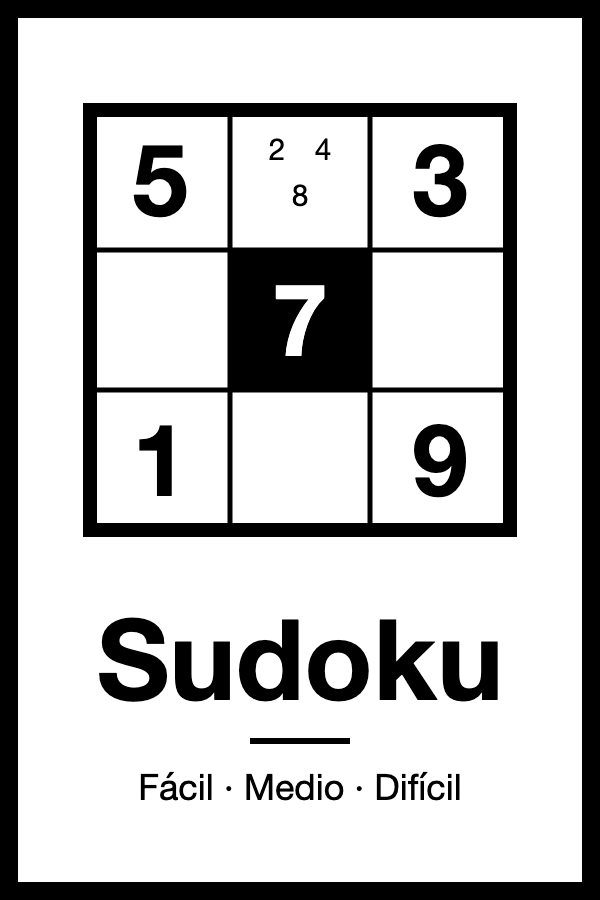
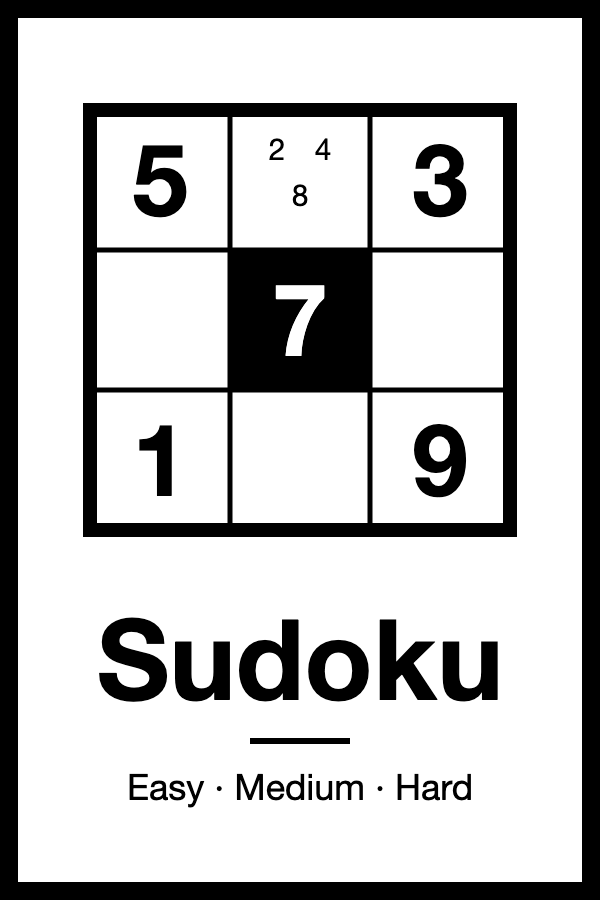
Sudoku: English and Spanish, with a settings screen
- The interface is in English (the default) or Spanish. All text lives in one
  TEXT table in app.js; level ids in saved games do not depend on the language.
- A gear at the top right of the menu and of the game opens a settings screen
  with the language. The title bar cannot hold a button of the app's own:
  KPP_MORE shows three dots but a tap opens the Kindle's menu, not the app.
- The library cover and the package description are in English.

Verified on a Paperwhite 12th gen (5.20.2): both languages, the language is
remembered, and the gear opens the settings.

Changed region(s): [[0.39, 0.84, 0.78, 0.9022], [0.21, 0.84, 0.36, 0.9022]]

diff --git a/waf/app.js b/waf/app.js
@@ -1,11 +1,12 @@
 /* Sudoku: Kindle WAF. ES5 only (the Kindle web engine is old).
-   Everything is local: no network, no service. The game is saved in localStorage. */
+   Everything is local: no network, no service. The game is saved in localStorage.
+   The interface is in English or Spanish (see TEXT); English is the default. */
 (function () {
   var APP_ID = 'com.alexgar.sudoku';
   var S = window.Sudoku;
   var app = document.getElementById('app');
   var LEVELS = ['facil', 'medio', 'dificil'];
-  var LABEL = { facil: 'Fácil', medio: 'Medio', dificil: 'Difícil' };
+  var LABEL = { facil: 1, medio: 1, dificil: 1 }; // the valid level ids; their names are in TEXT
   var IDLE_CAP = 120000; // a pause longer than this does not count as playing time
   var MAX_UNDO = 60;
 
@@ -33,10 +34,60 @@
     };
   })();
 
+  // ---- language -------------------------------------------------------------
+  // {0}, {1} are filled in by t(). Level ids stay 'facil' / 'medio' / 'dificil' in
+  // saved games whatever the language.
+  var TEXT = {
+    en: {
+      'name.en': 'English', 'name.es': 'Español', language: 'Language', settings: 'Settings', back: 'Back',
+      'level.facil': 'Easy', 'level.medio': 'Medium', 'level.dificil': 'Hard',
+      'continue': 'Continue', continueSub: '{0} · {1} cells left', newGame: 'New game',
+      unfinished: 'You have an unfinished game. Starting another one discards it.',
+      startNew: 'Start a new {0} one', solved: 'Solved', colLevel: 'Level', colSolved: 'Solved', colBest: 'Best time',
+      noSave: 'This Kindle cannot save your progress: if you close the app, the game is lost.',
+      preparing: 'Preparing a new {0} sudoku…',
+      won: 'Solved!', hint1: '1 hint', hintN: '{0} hints', another: 'Another {0} one', menu: 'Menu',
+      keyLeft: '{0} left', keyDone: 'done', keyOver: 'too many',
+      notes: 'Notes', erase: 'Erase', undo: 'Undo', hint: 'Hint', check: 'Check', status: '{0} · {1} left',
+      msgPick: 'Tap a cell first', msgGiven: 'That cell is part of the puzzle', msgNotes: 'Erase the number to add notes',
+      msgNoUndo: 'Nothing to undo', msgRight: 'That cell is already right',
+      chkOk: 'All good so far', chk1: '1 wrong cell', chkN: '{0} wrong cells', msgFull: 'Full, but with mistakes: tap Check'
+    },
+    es: {
+      'name.en': 'English', 'name.es': 'Español', language: 'Idioma', settings: 'Ajustes', back: 'Volver',
+      'level.facil': 'Fácil', 'level.medio': 'Medio', 'level.dificil': 'Difícil',
+      'continue': 'Continuar', continueSub: '{0} · faltan {1} casillas', newGame: 'Juego nuevo',
+      unfinished: 'Tienes un juego sin terminar. Si empiezas otro, ese se pierde.',
+      startNew: 'Empezar uno {0}', solved: 'Resueltos', colLevel: 'Nivel', colSolved: 'Resueltos', colBest: 'Mejor tiempo',
+      noSave: 'Este Kindle no deja guardar el avance: si cierras la app, el juego se pierde.',
+      preparing: 'Preparando un sudoku {0}…',
+      won: '¡Resuelto!', hint1: '1 pista', hintN: '{0} pistas', another: 'Otro {0}', menu: 'Menú',
+      keyLeft: 'faltan {0}', keyDone: 'listo', keyOver: 'de más',
+      notes: 'Notas', erase: 'Borrar', undo: 'Deshacer', hint: 'Pista', check: 'Comprobar', status: '{0} · faltan {1}',
+      msgPick: 'Toca una casilla primero', msgGiven: 'Esa casilla es del sudoku', msgNotes: 'Borra el número para poner notas',
+      msgNoUndo: 'No hay nada que deshacer', msgRight: 'Esa casilla ya está bien',
+      chkOk: 'Todo bien hasta aquí', chk1: '1 casilla con error', chkN: '{0} casillas con error', msgFull: 'Lleno, pero hay errores: toca Comprobar'
+    }
+  };
+  var lang = 'en';
+  function setLang(l, save) {
+    lang = TEXT[l] ? l : 'en';
+    document.documentElement.lang = lang;
+    if (save) { store.set('sudoku.lang', lang); }
+  }
+  function t(key, a, b) {
+    var s = TEXT[lang][key];
+    if (s === undefined) { s = TEXT.en[key]; }
+    return String(s).replace('{0}', a === undefined ? '' : a).replace('{1}', b === undefined ? '' : b);
+  }
+  function L(level) { return t('level.' + level); }      // "Easy"
+  function l(level) { return L(level).toLowerCase(); }   // "easy", inside a sentence
+
   // ---- state ----------------------------------------------------------------
   var game = null;       // { level, puzzle[], solution[], val[], notes[], elapsed, hints, undo[], done }
   var stats = {};        // { facil: { won, best }, ... }
-  var screen = 'menu';   // menu | busy | game
+  var screen = 'menu';   // menu | busy | game | settings
+  var beforeSettings = 'menu'; // where "Back" on the settings screen returns to
   var sel = -1, noteMode = false, errs = {}, message = '';
   var cells = [], keys = [], drawn = [], drawnKeys = [];
   var lastTick = 0;
@@ -114,40 +165,65 @@
   function renderMenu(confirmLevel) {
     screen = 'menu';
     setupChrome('Sudoku');
-    var h = '<div class="menu"><div class="logo">Sudoku</div>', i, l;
+    var h = '<div class="menu">' + GEAR + '<div class="logo">Sudoku</div>', i, lv;
     var playing = game && !game.done;
     if (playing) {
-      h += btn('continue', '', 'Continuar', LABEL[game.level] + ' · faltan ' + missing() + ' casillas', 'dark');
+      h += btn('continue', '', t('continue'), t('continueSub', L(game.level), missing()), 'dark');
     }
-    h += '<div class="label">Juego nuevo</div><table class="three"><tr>';
+    h += '<div class="label">' + t('newGame') + '</div><table class="three"><tr>';
     for (i = 0; i < LEVELS.length; i++) {
-      l = LEVELS[i];
-      h += '<td>' + btn('new', ' data-l="' + l + '"', LABEL[l]) + '</td>';
+      lv = LEVELS[i];
+      h += '<td>' + btn('new', ' data-l="' + lv + '"', L(lv)) + '</td>';
     }
     h += '</tr></table>';
     if (confirmLevel) {
-      h += '<div class="box"><div class="note">Tienes un juego sin terminar. Si empiezas otro, ese se pierde.</div>' +
-        btn('newok', ' data-l="' + confirmLevel + '"', 'Empezar uno ' + LABEL[confirmLevel].toLowerCase()) + '</div>';
+      h += '<div class="box"><div class="note">' + t('unfinished') + '</div>' +
+        btn('newok', ' data-l="' + confirmLevel + '"', t('startNew', l(confirmLevel))) + '</div>';
     }
-    h += '<div class="label">Resueltos</div><table class="stats"><tr><th>Nivel</th><th class="num">Resueltos</th><th class="num">Mejor tiempo</th></tr>';
+    h += '<div class="label">' + t('solved') + '</div><table class="stats"><tr><th>' + t('colLevel') + '</th><th class="num">' +
+      t('colSolved') + '</th><th class="num">' + t('colBest') + '</th></tr>';
     for (i = 0; i < LEVELS.length; i++) {
-      l = LEVELS[i];
-      h += '<tr><td>' + LABEL[l] + '</td><td class="num">' + stats[l].won + '</td><td class="num">' +
-        (stats[l].best ? fmtTime(stats[l].best) : '—') + '</td></tr>';
+      lv = LEVELS[i];
+      h += '<tr><td>' + L(lv) + '</td><td class="num">' + stats[lv].won + '</td><td class="num">' +
+        (stats[lv].best ? fmtTime(stats[lv].best) : '—') + '</td></tr>';
     }
     h += '</table>';
     if (!store.persistent) {
-      h += '<div class="box"><div class="note">Este Kindle no deja guardar el avance: si cierras la app, el juego se pierde.</div></div>';
+      h += '<div class="box"><div class="note">' + t('noSave') + '</div></div>';
     }
     app.innerHTML = h + '</div>';
     window.scrollTo(0, 0);
   }
 
+  // ---- settings (the gear at the top right of the menu and of the game) ------
+  var GEAR = '<a class="gear" href="javascript:void(0)" data-a="settings"></a>';
+  function openSettings() {
+    if (screen === 'settings' || screen === 'busy') { return; }
+    if (screen === 'game') { tick(); saveGame(); lastTick = 0; }
+    beforeSettings = screen;
+    renderSettings();
+  }
+  function renderSettings() {
+    screen = 'settings';
+    setupChrome('Sudoku · ' + t('settings'));
+    var h = '<div class="menu"><div class="logo">' + t('settings') + '</div><div class="label">' + t('language') +
+      '</div><table class="three"><tr>', code;
+    for (code in TEXT) {
+      if (TEXT.hasOwnProperty(code)) {
+        h += '<td>' + btn('lang', ' data-v="' + code + '"', t('name.' + code), '', code === lang ? 'dark' : '') + '</td>';
+      }
+    }
+    app.innerHTML = h + '</tr></table><div class="label">&nbsp;</div>' + btn('settingsback', '', t('back')) + '</div>';
+    window.scrollTo(0, 0);
+  }
+  function closeSettings() {
+    if (beforeSettings === 'game' && game) { renderGame(); } else { renderMenu(); }
+  }
+
   // ---- new game -------------------------------------------------------------
   function startNew(level) {
     screen = 'busy';
-    app.innerHTML = '<div class="menu"><div class="logo">Sudoku</div><div class="busy">Preparando un sudoku ' +
-      LABEL[level].toLowerCase() + '…</div></div>';
+    app.innerHTML = '<div class="menu"><div class="logo">Sudoku</div><div class="busy">' + t('preparing', l(level)) + '</div></div>';
     var best = null, tries = 0;
     // In short slices, so the "Preparando" text gets painted first.
     function step() {
@@ -173,10 +249,10 @@
   // ---- game screen ----------------------------------------------------------
   function renderGame() {
     screen = 'game';
-    setupChrome('Sudoku · ' + LABEL[game.level]);
+    setupChrome('Sudoku · ' + L(game.level));
     sel = -1; noteMode = false; errs = {}; message = ''; drawn = []; cells = [];
     lastTick = Date.now();
-    var h = '<div class="status"><span id="st"></span><span id="msg"></span></div><table class="board">', r, c;
+    var h = '<div class="status"><span id="st"></span>' + GEAR + '<span id="msg"></span></div><table class="board">', r, c;
     for (r = 0; r < 9; r++) {
       h += '<tr>';
       for (c = 0; c < 9; c++) {
@@ -203,9 +279,9 @@
     var box = document.getElementById('controls'), h, d;
     keys = []; drawnKeys = [];
     if (game.done) {
-      h = '<div class="win"><div class="wt">¡Resuelto!</div><div class="wd">' + LABEL[game.level] + ' · ' + fmtTime(game.elapsed) +
-        (game.hints ? ' · ' + game.hints + (game.hints === 1 ? ' pista' : ' pistas') : '') + '</div><table><tr>' +
-        act('newok', 'Otro ' + LABEL[game.level].toLowerCase(), ' data-l="' + game.level + '"') + act('menu', 'Menú') + '</tr></table></div>';
+      h = '<div class="win"><div class="wt">' + t('won') + '</div><div class="wd">' + L(game.level) + ' · ' + fmtTime(game.elapsed) +
+        (game.hints ? ' · ' + (game.hints === 1 ? t('hint1') : t('hintN', game.hints)) : '') + '</div><table><tr>' +
+        act('newok', t('another', l(game.level)), ' data-l="' + game.level + '"') + act('menu', t('menu')) + '</tr></table></div>';
       box.innerHTML = h;
       return;
     }
@@ -215,8 +291,8 @@
         '</span><span class="kc"></span></a></td>';
     }
     // "Menú" is also the title bar's back arrow; the button is there in case the arrow fails.
-    h += '</tr></table><table class="acts"><tr>' + act('menu', 'Menú') + act('notes', 'Notas', ' id="a-notes"') +
-      act('erase', 'Borrar') + act('undo', 'Deshacer') + act('hint', 'Pista') + act('check', 'Comprobar') + '</tr></table>';
+    h += '</tr></table><table class="acts"><tr>' + act('menu', t('menu')) + act('notes', t('notes'), ' id="a-notes"') +
+      act('erase', t('erase')) + act('undo', t('undo')) + act('hint', t('hint')) + act('check', t('check')) + '</tr></table>';
     box.innerHTML = h;
     var as = box.getElementsByTagName('a');
     for (var i = 0; i < as.length; i++) {
@@ -249,11 +325,11 @@
       if (drawnKeys[d] === sig) { continue; }
       drawnKeys[d] = sig;
       keys[d].className = 'key' + (left <= 0 ? ' out' : '');
-      keys[d].getElementsByTagName('span')[1].innerHTML = left > 0 ? 'faltan ' + left : (left === 0 ? 'listo' : 'de más');
+      keys[d].getElementsByTagName('span')[1].innerHTML = left > 0 ? t('keyLeft', left) : (left === 0 ? t('keyDone') : t('keyOver'));
     }
     var nb = document.getElementById('a-notes');
     if (nb) { nb.className = 'act' + (noteMode ? ' on' : ''); }
-    setText('st', game.done ? LABEL[game.level] : LABEL[game.level] + ' · faltan ' + count[0]);
+    setText('st', game.done ? L(game.level) : t('status', L(game.level), count[0]));
     setText('msg', message);
   }
   function setText(id, text) {
@@ -267,15 +343,15 @@
     if (game.undo.length > MAX_UNDO) { game.undo.shift(); }
   }
   function editable() { // the selected cell, if the player may change it
-    if (sel < 0) { message = 'Toca una casilla primero'; return false; }
-    if (game.puzzle[sel]) { message = 'Esa casilla es del sudoku'; return false; }
+    if (sel < 0) { message = t('msgPick'); return false; }
+    if (game.puzzle[sel]) { message = t('msgGiven'); return false; }
     return true;
   }
   function putDigit(d) {
     if (!editable()) { return; }
     var bit = 1 << (d - 1), i;
     if (noteMode) {
-      if (game.val[sel]) { message = 'Borra el número para poner notas'; return; }
+      if (game.val[sel]) { message = t('msgNotes'); return; }
       remember();
       game.notes[sel] ^= bit;
       return;
@@ -295,13 +371,13 @@
     game.val[sel] = 0; game.notes[sel] = 0; delete errs[sel];
   }
   function undo() {
-    if (!game.undo.length) { message = 'No hay nada que deshacer'; return; }
+    if (!game.undo.length) { message = t('msgNoUndo'); return; }
     restore(game.undo.pop());
     errs = {};
   }
   function hint() {
     if (!editable()) { return; }
-    if (game.val[sel] === game.solution[sel]) { message = 'Esa casilla ya está bien'; return; }
+    if (game.val[sel] === game.solution[sel]) { message = t('msgRight'); return; }
     remember();
     var d = game.solution[sel], bit = 1 << (d - 1);
     game.val[sel] = d; game.notes[sel] = 0; game.hints++; delete errs[sel];
@@ -314,14 +390,14 @@
     for (var i = 0; i < 81; i++) {
       if (game.val[i] && game.val[i] !== game.solution[i]) { errs[i] = true; n++; }
     }
-    message = n === 0 ? 'Todo bien hasta aquí' : (n === 1 ? '1 casilla con error' : n + ' casillas con error');
+    message = n === 0 ? t('chkOk') : (n === 1 ? t('chk1') : t('chkN', n));
   }
   function checkEnd() {
     for (var i = 0; i < 81; i++) {
       if (!game.val[i]) { return; }
     }
     for (i = 0; i < 81; i++) {
-      if (game.val[i] !== game.solution[i]) { message = 'Lleno, pero hay errores: toca Comprobar'; return; }
+      if (game.val[i] !== game.solution[i]) { message = t('msgFull'); return; }
     }
     game.done = true; game.undo = []; sel = -1; noteMode = false;
     var s = stats[game.level];
@@ -357,6 +433,9 @@
       if (game && !game.done && game.undo.length) { renderMenu(level); } else { startNew(level); }
     }
     else if (a === 'newok') { startNew(level); }
+    else if (a === 'settings') { openSettings(); }
+    else if (a === 'settingsback') { closeSettings(); }
+    else if (a === 'lang' && screen === 'settings') { setLang(el.getAttribute('data-v'), true); renderSettings(); }
     else if (screen === 'game' && game && !game.done) { onGameAction(a, el); }
   }
   function leaveGame() {
@@ -386,7 +465,7 @@
     if (e.preventDefault) { e.preventDefault(); }
   }, false);
 
-  // ---- Kindle title bar (same setup as Bóveda) --------------------------------
+  // ---- Kindle title bar (same setup as Vault, kindle-vault) --------------------------------
   function setupChrome(title) {
     try {
       if (window.kindle && kindle.messaging) {
@@ -406,6 +485,7 @@
   function onBarButton(property, id) {
     var s = typeof id === 'object' ? JSON.stringify(id) : String(id);
     if (!/back/i.test(s)) { return; }
+    if (screen === 'settings') { closeSettings(); return; }
     if (screen === 'game') { leaveGame(); return; }
     // On the menu, back leaves the app.
     try { kindle.appmgr.back(); } catch (e) { /* the X in the title bar always works */ }
@@ -424,6 +504,7 @@
   // ---- start ----------------------------------------------------------------
   window.onresize = function () { layout(); };
   layout();
+  setLang(store.get('sudoku.lang'), false);
   loadStats();
   loadGame();
   initKindle();

diff --git a/waf/app.css b/waf/app.css
@@ -13,7 +13,16 @@ td { padding: 0; }
 .status { height: .62em; overflow: hidden; }
 .status span { display: block; font-size: .27em; line-height: 2.3em; white-space: nowrap; }
 #st { float: left; margin-left: 1.2em; font-weight: bold; }
-#msg { float: right; margin-right: 1.2em; }
+#msg { float: right; margin-right: .5em; }
+/* Settings: a gear at the top right, under the X of the title bar (drawn in gear.svg). */
+.gear {
+  display: block; float: right; width: .54em; height: .54em; margin: .01em .32em 0 0;
+  border: 3px solid #000; border-radius: .1em;
[1 lines of base64/hex data omitted]
+  -webkit-background-size: .36em .36em; background-size: .36em .36em;
+}
+.menu { position: relative; }
+.menu .gear { float: none; position: absolute; top: .16em; right: .5em; width: .62em; height: .62em; margin: 0; -webkit-background-size: .42em .42em; background-size: .42em .42em; }
 
 /* --- board --- */
 .board { table-layout: fixed; }

diff --git a/waf/index.html b/waf/index.html
@@ -1,5 +1,5 @@
 <!DOCTYPE html>
-<html lang="es">
+<html lang="en">
 <head>
 <meta charset="utf-8">
 <meta name="viewport" content="width=device-width, initial-scale=1, user-scalable=no">

diff --git a/README.md b/README.md
@@ -5,7 +5,7 @@ a book and runs entirely on the device: no network, no account, no permissions.
 
 <img src="docs/screenshot.png" alt="Sudoku on a Kindle Paperwhite" width="320">
 
-- **Three levels.** *Fácil* and *Medio* need only singles. *Difícil* always needs
+- **Three levels.** *Easy* and *Medium* need only singles. *Hard* always needs
   more (locked candidates or pairs) but never guessing. Every puzzle has exactly
   one solution and is generated on the Kindle.
 - **Notes** (pencil marks), erase, undo, hint, and a check that marks wrong cells.
@@ -13,7 +13,7 @@ a book and runs entirely on the device: no network, no account, no permissions.
 - **Built for e-ink:** black on white, no animation, big tap targets, and only the
   cells that change are repainted.
 
-The interface is in Spanish.
+The interface is in **English or Spanish** (English by default). Switch it in the settings: the gear at the top right, under the X.
 
 ## Requirements
 
@@ -72,9 +72,9 @@ Difficulty is the hardest technique a puzzle needs, not how many numbers it show
 
 | Level | Needs | Givens |
 |---|---|---|
-| Fácil | Singles only | 39–40 |
-| Medio | Singles only | 30–32 |
-| Difícil | Locked candidates or pairs, never guessing | 22–28 |
+| Easy | Singles only | 39–40 |
+| Medium | Singles only | 30–32 |
+| Hard | Locked candidates or pairs, never guessing | 22–28 |
 
 The generator removes givens while a logical solver, limited to the level's
 techniques, can still finish the puzzle. A deduction-only solve also proves the
@@ -85,7 +85,7 @@ solution is unique.
 | Path | What |
 |---|---|
 | `waf/sudoku.js` | The engine: generator, logical solver (grades the level) and a brute-force uniqueness check. No DOM. |
-| `waf/app.js`, `app.css`, `index.html`, `config.xml` | The app, a Kindle WAF. ES5 only (the Kindle's web engine is old); `#app`'s font size is one board cell, so all CSS lengths are in cells. |
+| `waf/app.js`, `app.css`, `index.html`, `config.xml` | The app, a Kindle WAF. All interface text is in the `TEXT` table in `app.js` (one block per language). ES5 only (the Kindle's web engine is old); `#app`'s font size is one board cell, so all CSS lengths are in cells. |
 | `kindle/Sudoku.sh` | The launcher: installs on first run, then opens the app. |
 | `kindle/uninstall` | Full removal. No `.sh` extension on purpose: the Kindle lists every `.sh` under `documents` as a book. |
 | `kindle/cover.svg`, `cover.png` | The library cover (600×900). `package.sh` embeds the PNG in the launcher as its `# Icon:` line. |
@@ -100,7 +100,9 @@ To try the interface on a computer, serve `waf/` over HTTP and open it at about
 
 Device notes: the screen is 1272×1696 and the board ends up about 1060 px wide
 below the title bar. The title bar's back arrow reaches the app as the LIPC
-property `invokeAction = KPP_BACK`.
+property `invokeAction = KPP_BACK`. The title bar cannot hold a button of the
+app's own: `KPP_MORE` shows three dots, but a tap opens the Kindle's menu, not
+the app. So the settings gear is in the page (`waf/gear.svg`, embedded in `app.css`).
 
 ## License
 
